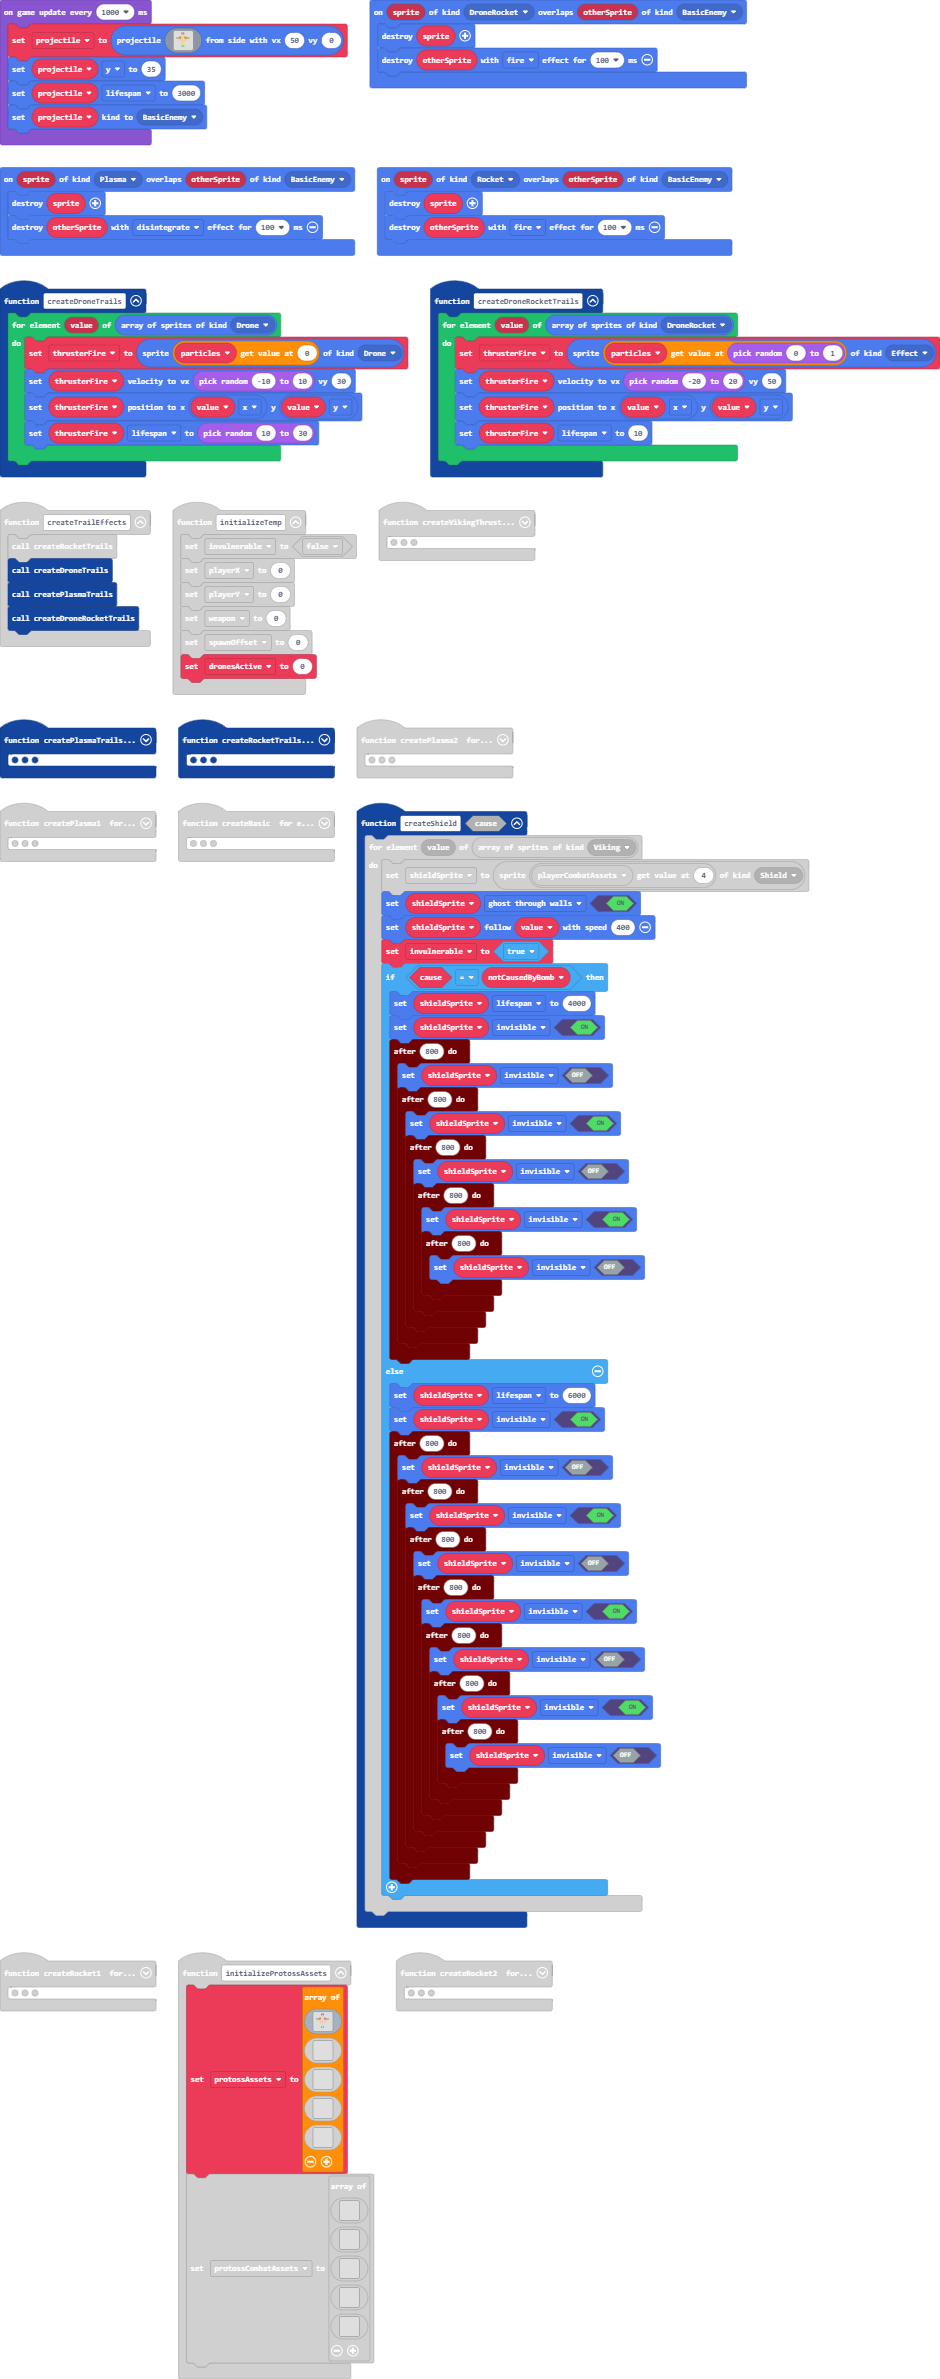
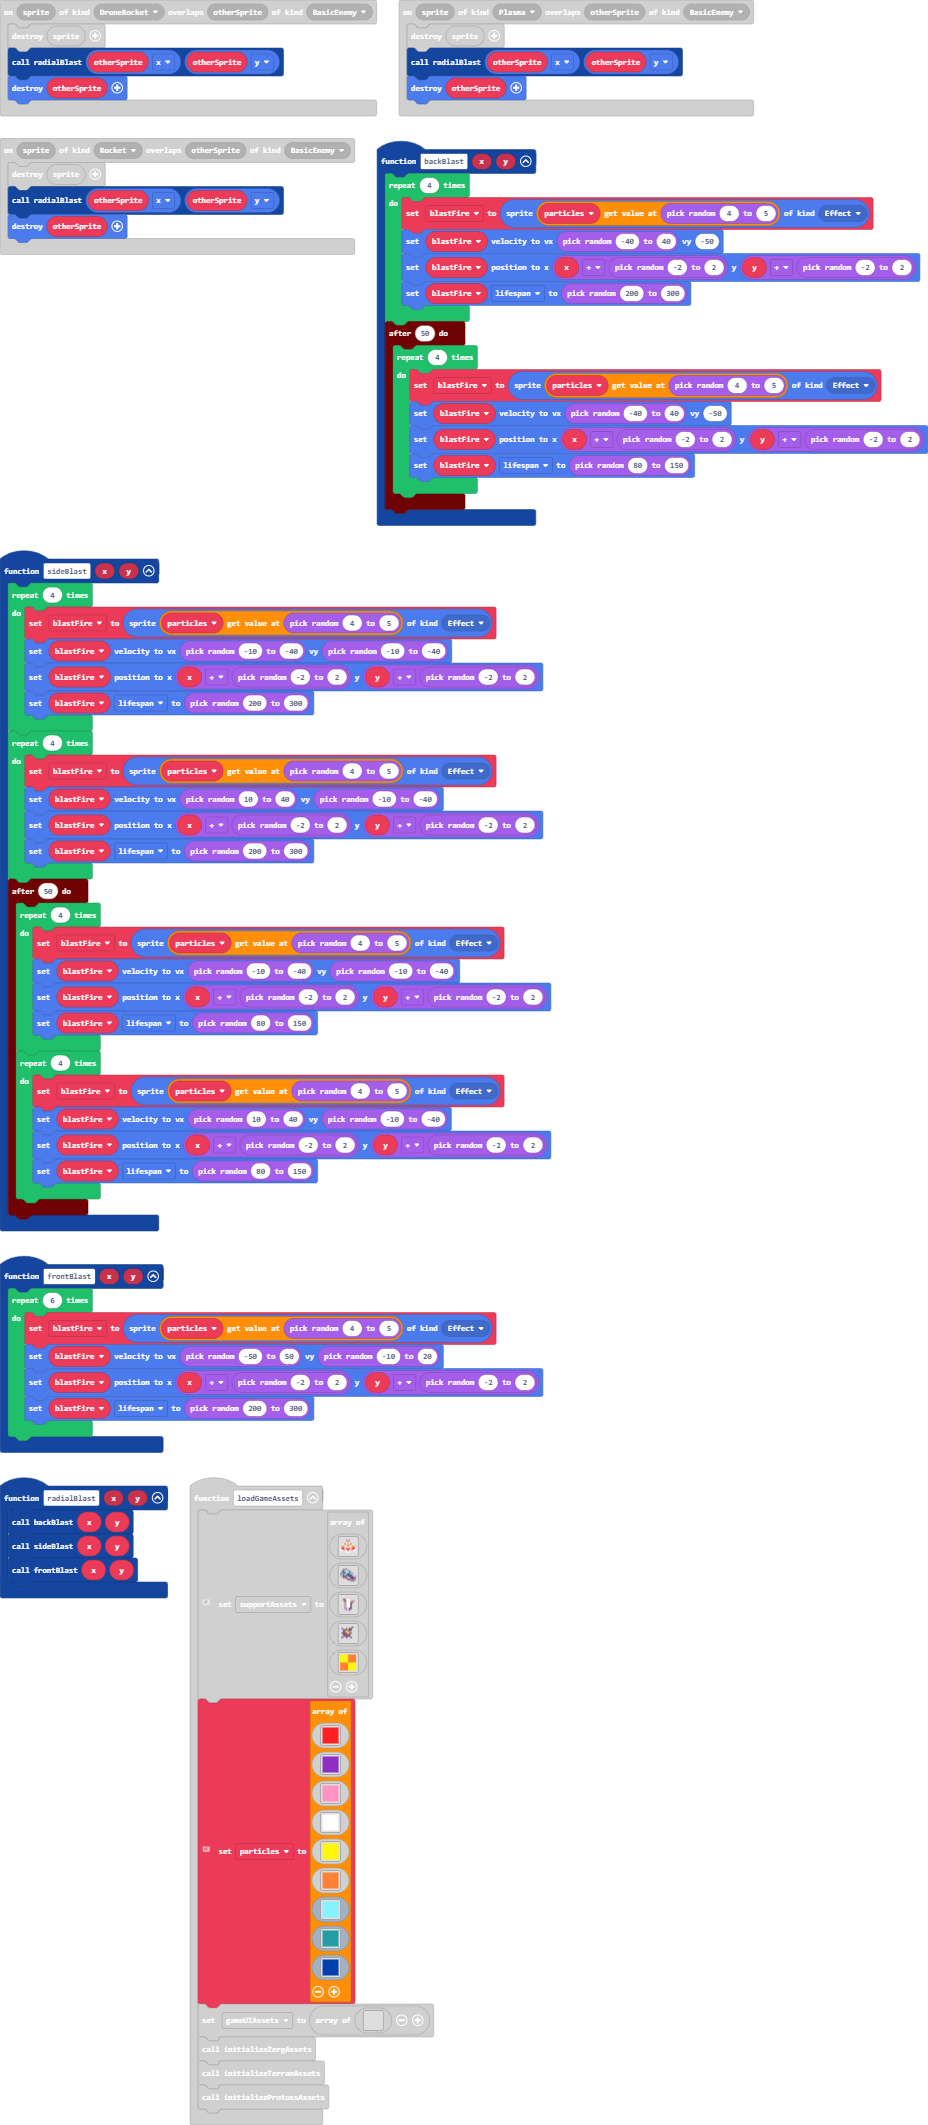
custom explode animation

diff --git a/main.ts b/main.ts
@@ -72,6 +72,14 @@ function createPlasma2 () {
         }
     }
 }
+function frontBlast (x: number, y: number) {
+    for (let index = 0; index < 6; index++) {
+        blastFire = sprites.create(particles2[randint(4, 5)], SpriteKind.Effect)
+        blastFire.setVelocity(randint(-50, 50), randint(-10, 20))
+        blastFire.setPosition(x + randint(-2, 2), y + randint(-2, 2))
+        blastFire.lifespan = randint(200, 300)
+    }
+}
 function initializePlayer () {
     initializePlayerAssets()
     getThisGuyHome = sprites.create(playerAssets[1], SpriteKind.Viking)
@@ -275,6 +283,22 @@ controller.A.onEvent(ControllerButtonEvent.Pressed, function () {
 sprites.onDestroyed(SpriteKind.Shield, function (sprite) {
     invulnerable = false
 })
+function backBlast (x: number, y: number) {
+    for (let index = 0; index < 4; index++) {
+        blastFire = sprites.create(particles2[randint(4, 5)], SpriteKind.Effect)
+        blastFire.setVelocity(randint(-40, 40), -50)
+        blastFire.setPosition(x + randint(-2, 2), y + randint(-2, 2))
+        blastFire.lifespan = randint(200, 300)
+    }
+    timer.after(50, function () {
+        for (let index = 0; index < 4; index++) {
+            blastFire = sprites.create(particles2[randint(4, 5)], SpriteKind.Effect)
+            blastFire.setVelocity(randint(-40, 40), -50)
+            blastFire.setPosition(x + randint(-2, 2), y + randint(-2, 2))
+            blastFire.lifespan = randint(80, 150)
+        }
+    })
+}
 function initializeGame () {
     initializeConsts()
     initializeTemp()
@@ -389,9 +413,38 @@ function createRocket1 () {
         }
     }
 }
+function sideBlast (x: number, y: number) {
+    for (let index = 0; index < 4; index++) {
+        blastFire = sprites.create(particles2[randint(4, 5)], SpriteKind.Effect)
+        blastFire.setVelocity(randint(-10, -40), randint(-10, -40))
+        blastFire.setPosition(x + randint(-2, 2), y + randint(-2, 2))
+        blastFire.lifespan = randint(200, 300)
+    }
+    for (let index = 0; index < 4; index++) {
+        blastFire = sprites.create(particles2[randint(4, 5)], SpriteKind.Effect)
+        blastFire.setVelocity(randint(10, 40), randint(-10, -40))
+        blastFire.setPosition(x + randint(-2, 2), y + randint(-2, 2))
+        blastFire.lifespan = randint(200, 300)
+    }
+    timer.after(50, function () {
+        for (let index = 0; index < 4; index++) {
+            blastFire = sprites.create(particles2[randint(4, 5)], SpriteKind.Effect)
+            blastFire.setVelocity(randint(-10, -40), randint(-10, -40))
+            blastFire.setPosition(x + randint(-2, 2), y + randint(-2, 2))
+            blastFire.lifespan = randint(80, 150)
+        }
+        for (let index = 0; index < 4; index++) {
+            blastFire = sprites.create(particles2[randint(4, 5)], SpriteKind.Effect)
+            blastFire.setVelocity(randint(10, 40), randint(-10, -40))
+            blastFire.setPosition(x + randint(-2, 2), y + randint(-2, 2))
+            blastFire.lifespan = randint(80, 150)
+        }
+    })
+}
 sprites.onOverlap(SpriteKind.DroneRocket, SpriteKind.BasicEnemy, function (sprite, otherSprite) {
     sprites.destroy(sprite)
-    sprites.destroy(otherSprite, effects.fire, 100)
+    radialBlast(otherSprite.x, otherSprite.y)
+    sprites.destroy(otherSprite)
 })
 function createPlasmaTrails () {
     for (let value of sprites.allOfKind(SpriteKind.Plasma)) {
@@ -441,7 +494,8 @@ function createVikingThrusterTrail () {
 }
 sprites.onOverlap(SpriteKind.Rocket, SpriteKind.BasicEnemy, function (sprite, otherSprite) {
     sprites.destroy(sprite)
-    sprites.destroy(otherSprite, effects.fire, 100)
+    radialBlast(otherSprite.x, otherSprite.y)
+    sprites.destroy(otherSprite)
 })
 function initializeZergAssets () {
     zergAssets = [
@@ -636,6 +690,11 @@ function createDroneTrails () {
         thrusterFire.setPosition(value.x, value.y)
         thrusterFire.lifespan = randint(10, 30)
     }
+}
+function radialBlast (x: number, y: number) {
+    backBlast(x, y)
+    sideBlast(x, y)
+    frontBlast(x, y)
 }
 function createDroneRocketTrails () {
     for (let value of sprites.allOfKind(SpriteKind.DroneRocket)) {
@@ -1162,6 +1221,15 @@ function loadGameAssets () {
         4 5 
         `
     ]
+    // 0 - red
+    // 1 - violet
+    // 2 - pink
+    // 3 - white
+    // 4 - yellow
+    // 5 - orange
+    // 6 - light blue
+    // 7 - teal
+    // 8 - blue
     particles2 = [
     img`
         2 
@@ -1180,6 +1248,15 @@ function loadGameAssets () {
         `,
     img`
         4 
+        `,
+    img`
+        9 
+        `,
+    img`
+        6 
+        `,
+    img`
+        8 
         `
     ]
     gameUIAssets = [img`
@@ -1206,7 +1283,8 @@ function loadGameAssets () {
 }
 sprites.onOverlap(SpriteKind.Plasma, SpriteKind.BasicEnemy, function (sprite, otherSprite) {
     sprites.destroy(sprite)
-    sprites.destroy(otherSprite, effects.disintegrate, 100)
+    radialBlast(otherSprite.x, otherSprite.y)
+    sprites.destroy(otherSprite)
 })
 function createBasic () {
     for (let value of sprites.allOfKind(SpriteKind.Viking)) {
@@ -1239,7 +1317,6 @@ let zergCombatAssets: Image[] = []
 let zergAssets: Image[] = []
 let thrusterEffectOffset = 0
 let shieldSprite: Sprite = null
-let particles2: Image[] = []
 let thrusterFire: Sprite = null
 let thrusterOffset = 0
 let causedByBomb = false
@@ -1250,6 +1327,8 @@ let terranAssets: Image[] = []
 let notCausedByBomb = false
 let playerAssets: Image[] = []
 let getThisGuyHome: Sprite = null
+let particles2: Image[] = []
+let blastFire: Sprite = null
 let plasma: Sprite = null
 let side2 = 0
 let side1 = 0
